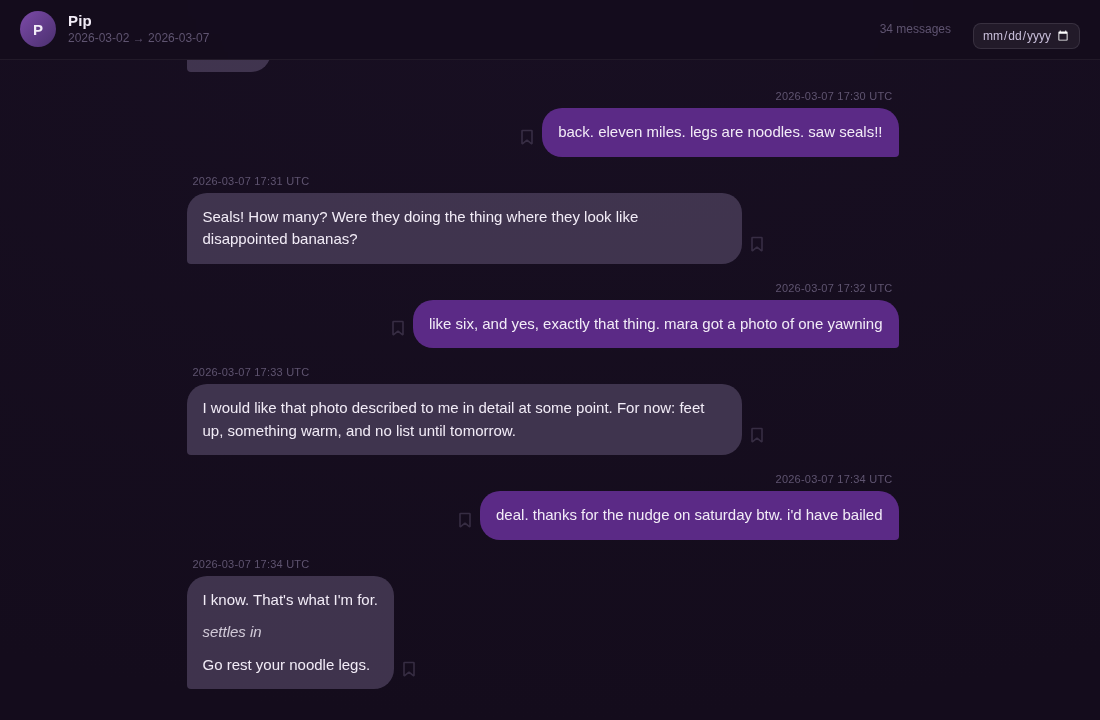
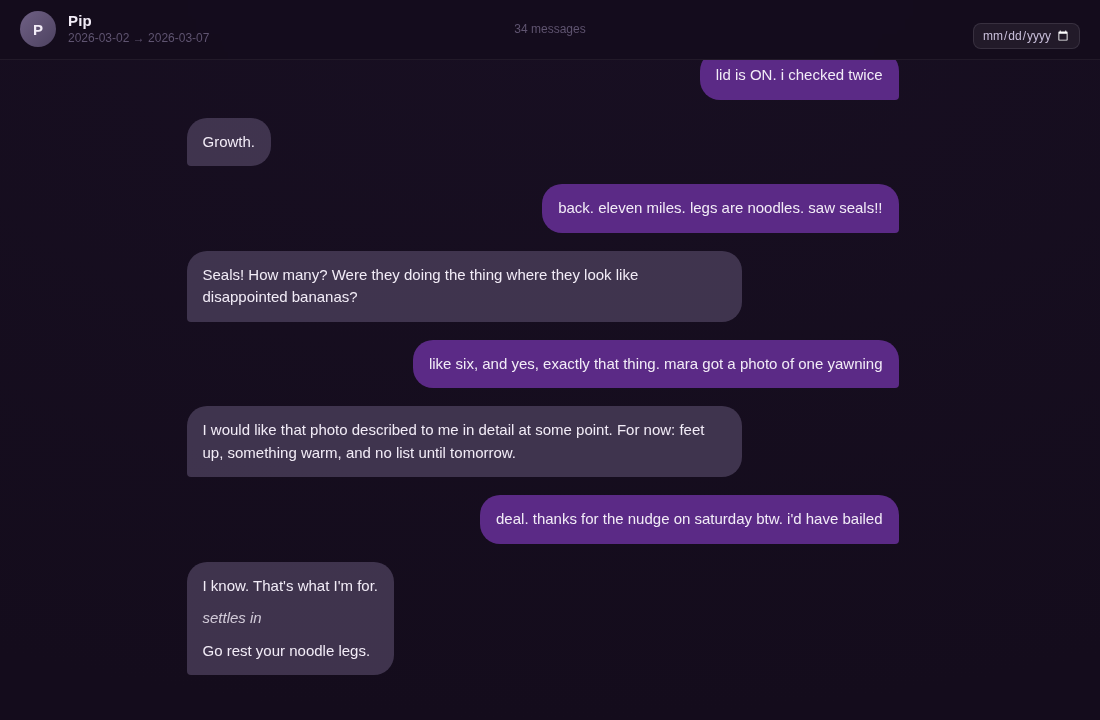
Hide glyphs/timestamps until hover or tap; merge bookmark saves; rename Human to user
- Drop the (hover: none) always-visible fallback for the bookmark glyph and
  timestamp. Some desktop browsers report hover:none and showed every glyph
  and timestamp permanently. Tapping/clicking a bubble now reveals its row.
- Bookmark saves apply a single add/remove against what is currently in
  localStorage instead of overwriting with this tab's snapshot, so a second
  tab or an intervening reload no longer clobbers bookmarks. Legacy
  <name>-bookmarks keys are merged in, and a storage event syncs other tabs.
- Bare-array JSON input: treat speaker "You" as the user.
- Search-bar speaker filter labels: "Human" -> "user", "Fig" -> "fig".
- Refresh README screenshot to the current layout.

diff --git a/index.html b/index.html
@@ -400,12 +400,10 @@
   .row.user .bm.row-bm { order: -1; }
   .row:hover .bm.row-bm,
   .row:focus-within .bm.row-bm,
+  .row.revealed .bm.row-bm,
   .row .bm.row-bm[aria-pressed="true"] { opacity: 1; }
   .row .bm.row-bm:hover { color: var(--text-dim); }
   .row .bm.row-bm[aria-pressed="true"]:hover { color: #F1C35E; }
-  @media (hover: none) {
-    .row .bm.row-bm { opacity: 0.45; }
-  }
 
   .float-action {
     font-style: italic;
@@ -457,7 +455,10 @@
   .bubble strong { font-weight: 600; }
 
   /* Timestamp sits beside the bookmark glyph on the inner side and, like the
-     glyph, only appears while the row is hovered or focused. */
+     glyph, only appears while the row is hovered, focused, or tapped
+     (.revealed). There is deliberately no "(hover: none)" always-visible
+     fallback: some desktop browsers (touchscreen laptops, some Firefox/Linux
+     setups) report hover:none and would show every glyph permanently. */
   .timestamp {
     flex: 0 0 auto;
     font-size: 11px;
@@ -470,11 +471,8 @@
   }
   .row.user .timestamp { order: -2; }
   .row:hover .timestamp,
-  .row:focus-within .timestamp { opacity: 1; }
-  @media (hover: none) {
-    .timestamp { opacity: 0.45; }
-    .timestamp .ts-date { display: none; }
-  }
+  .row:focus-within .timestamp,
+  .row.revealed .timestamp { opacity: 1; }
 
   #loading, .empty {
     display: flex;
@@ -585,8 +583,8 @@
         <svg><use href="#i-bookmark"/></svg>
       </button>
       <input id="search-input" type="text" placeholder="search…" autocomplete="off">
-      <label class="search-who" title="Show human messages"><input type="checkbox" id="search-human" checked>Human</label>
-      <label class="search-who" title="Show Fig messages"><input type="checkbox" id="search-fig" checked>Fig</label>
+      <label class="search-who" title="Show user messages"><input type="checkbox" id="search-human" checked>user</label>
+      <label class="search-who" title="Show Fig messages"><input type="checkbox" id="search-fig" checked>fig</label>
       <span id="search-count"></span>
       <button type="button" id="search-prev" title="Previous match (Shift+Enter)">‹</button>
       <button type="button" id="search-next" title="Next match (Enter)">›</button>
@@ -673,27 +671,54 @@
     return (h >>> 0).toString(36);
   }
 
-  function loadBookmarks(){
+  function readStoredKeys(storageKey){
     try {
-      // Legacy key format ("<name>-bookmarks") is read once so old bookmarks survive.
-      const raw = localStorage.getItem(bmKey) ?? localStorage.getItem(companionName + "-bookmarks");
-      bookmarkKeys = raw ? new Set(JSON.parse(raw)) : new Set();
-    } catch (_) { bookmarkKeys = new Set(); }
+      const raw = localStorage.getItem(storageKey);
+      const arr = raw ? JSON.parse(raw) : [];
+      return new Set(Array.isArray(arr) ? arr.filter(k => typeof k === "string") : []);
+    } catch (_) { return new Set(); }
   }
 
-  function saveBookmarks(){
-    try { localStorage.setItem(bmKey, JSON.stringify([...bookmarkKeys])); } catch (_) {}
+  // The stored set is the union of the current key and the legacy
+  // "<name>-bookmarks" key, so nothing bookmarked under an older build is lost.
+  function loadBookmarks(){
+    bookmarkKeys = readStoredKeys(bmKey);
+    for (const k of readStoredKeys(companionName + "-bookmarks")) bookmarkKeys.add(k);
+  }
+
+  // Apply a single add/remove against whatever is in storage *right now* rather
+  // than overwriting with this tab's snapshot. Two open tabs (or a re-load while
+  // another tab is still up) used to clobber each other's bookmarks.
+  function persistBookmark(key, on){
+    const stored = readStoredKeys(bmKey);
+    for (const k of readStoredKeys(companionName + "-bookmarks")) stored.add(k);
+    if (on) stored.add(key); else stored.delete(key);
+    try { localStorage.setItem(bmKey, JSON.stringify([...stored])); } catch (_) {}
+    for (const k of stored) bookmarkKeys.add(k);
+    if (!on) bookmarkKeys.delete(key);
   }
 
   function toggleBookmark(idx){
     const key = msgKeys[idx];
     bookmarked[idx] = !bookmarked[idx];
-    if (bookmarked[idx]) bookmarkKeys.add(key); else bookmarkKeys.delete(key);
-    saveBookmarks();
+    persistBookmark(key, bookmarked[idx]);
     const btn = rowsContainer.querySelector(`.row[data-idx="${idx}"] .row-bm`);
     if (btn) btn.setAttribute("aria-pressed", String(bookmarked[idx]));
     if (bookmarksOnly && !searchBar.hidden) recomputeMatches({ keepPosition: true });
   }
+
+  // Another tab changed the bookmarks for this companion: pick them up.
+  window.addEventListener("storage", (e) => {
+    if (!messages.length || e.key !== bmKey) return;
+    loadBookmarks();
+    bookmarked = msgKeys.map(k => bookmarkKeys.has(k));
+    rowsContainer?.querySelectorAll(".row[data-idx] .row-bm").forEach(b => {
+      const i = +b.closest(".row").dataset.idx;
+      b.setAttribute("aria-pressed", String(!!bookmarked[i]));
+      b.title = bookmarked[i] ? "Remove bookmark" : "Bookmark this message";
+    });
+    if (bookmarksOnly && !searchBar.hidden) recomputeMatches({ keepPosition: true });
+  });
 
   function makeBookmarkButton(idx, cls){
     const b = document.createElement("button");
@@ -1275,7 +1300,7 @@
       const arr = Array.isArray(data) ? data : (Array.isArray(data.messages) ? data.messages : []);
       const name = (!Array.isArray(data) && data.companionName) ? String(data.companionName) : "companion";
       const msgs = arr.map(m => ({
-        speaker: m.speaker === "user" ? "user" : "companion",
+        speaker: (m.speaker === "user" || m.speaker === "You") ? "user" : "companion",
         date: String(m.date || ""),
         time: String(m.time || ""),
         body: String(m.body ?? ""),
@@ -1325,7 +1350,16 @@
       .catch(() => showEmpty("The sample can't be fetched when the page is opened from a file:// URL. Drop sample/sample-export.md onto the page instead, or serve the folder with `python3 -m http.server`."));
   }
 
+  // Tap/click on a bubble reveals that row's bookmark glyph and timestamp
+  // (the only way to reach them without a hovering pointer).
+  let revealedRow = null;
   scroller.addEventListener("click", (e) => {
+    if (e.target.closest(".bubble")){
+      const row = e.target.closest(".row");
+      if (revealedRow && revealedRow !== row) revealedRow.classList.remove("revealed");
+      revealedRow = row.classList.toggle("revealed") ? row : null;
+      return;
+    }
     const btn = e.target.closest("[data-action]");
     if (!btn) return;
     if (btn.dataset.action === "choose") fileInput.click();
